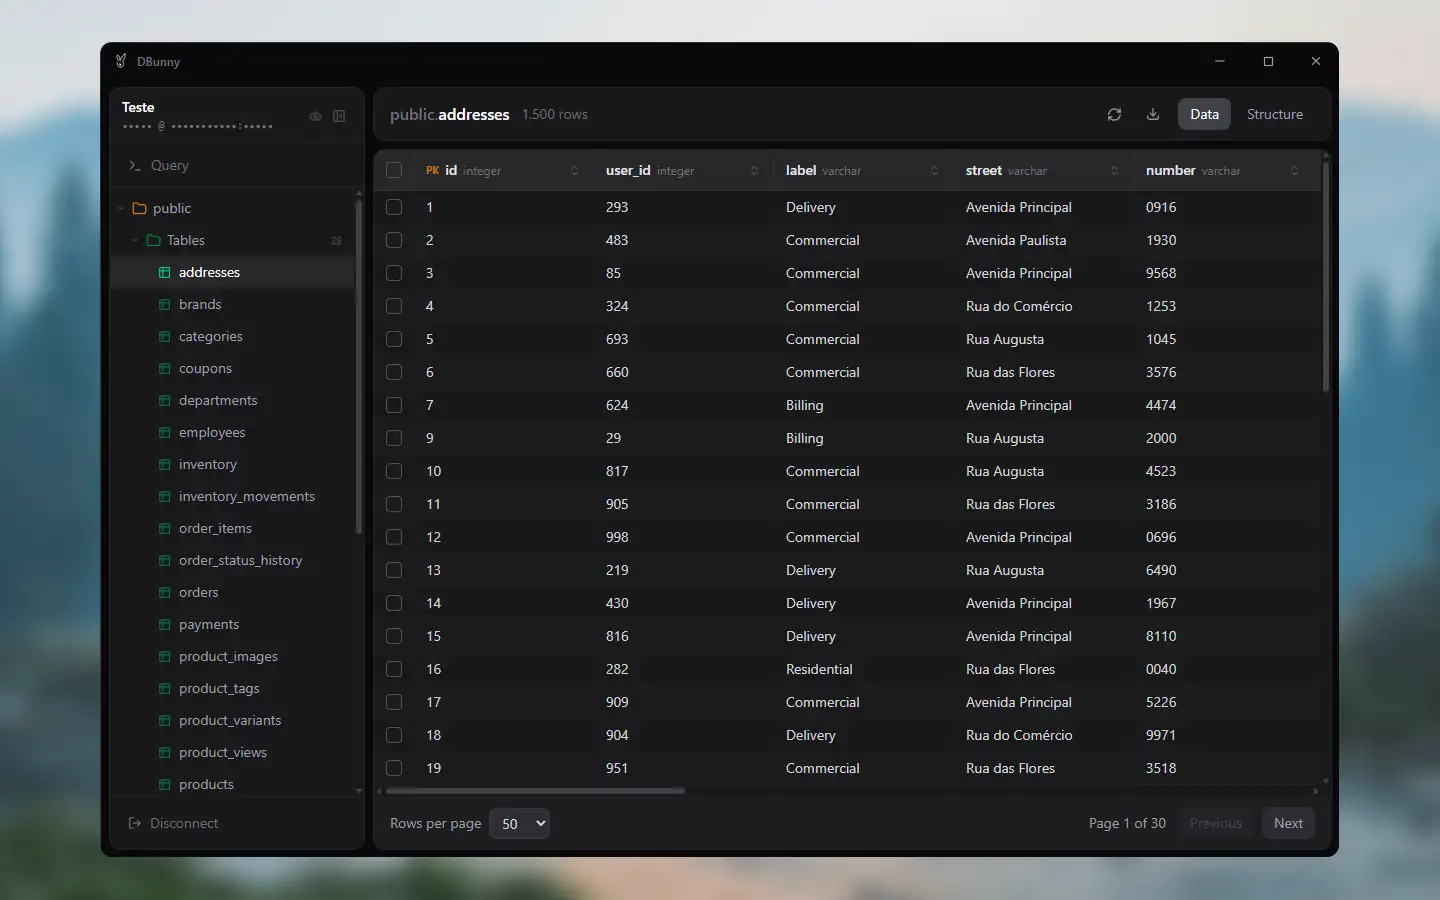
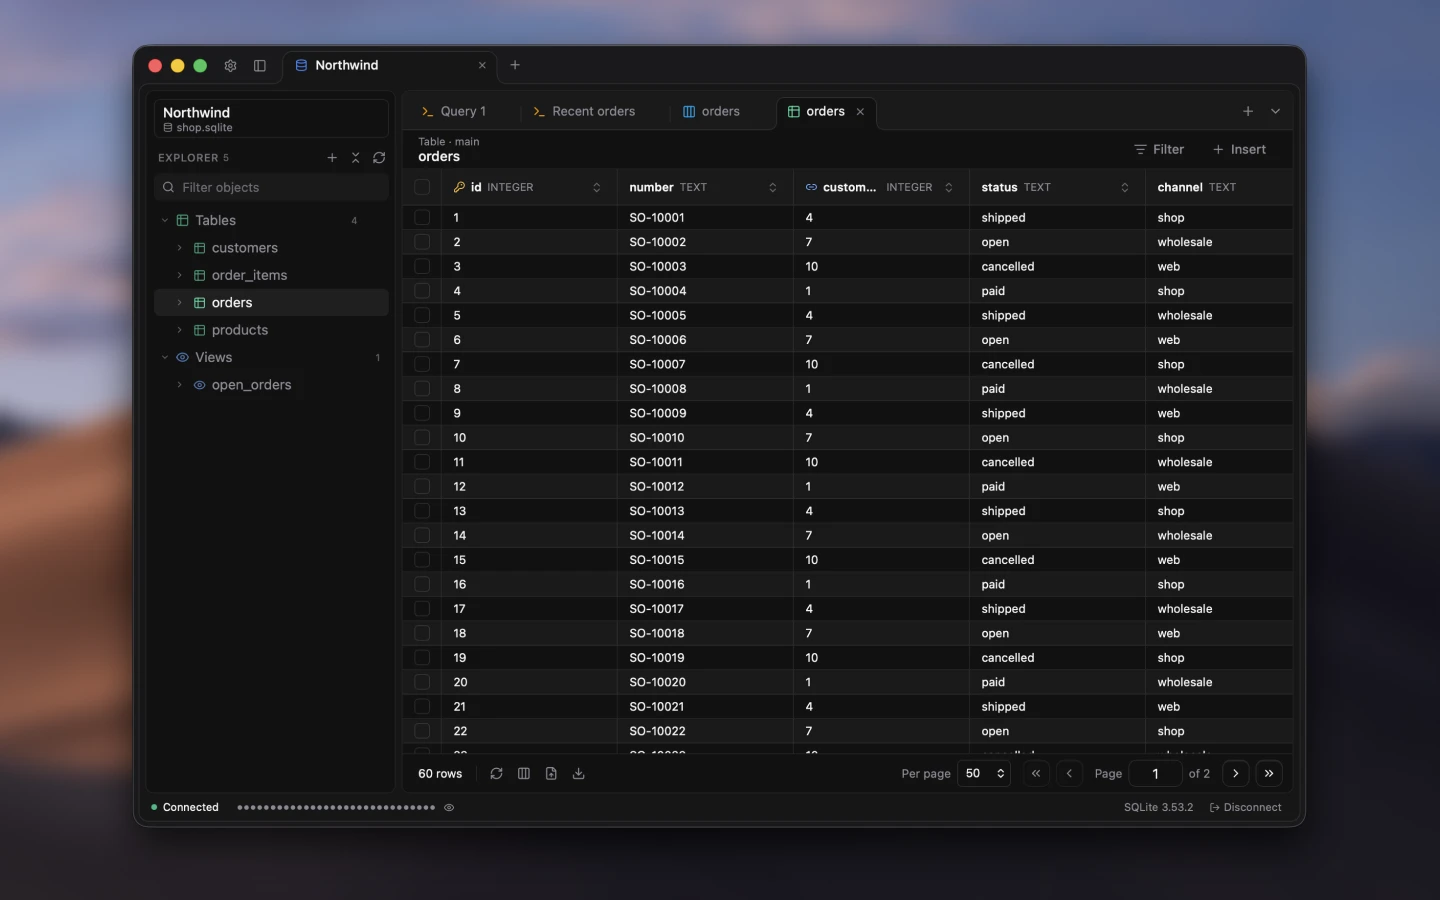
style(web): update DBunny

diff --git a/web/src/data/projects.ts b/web/src/data/projects.ts
@@ -5,14 +5,32 @@ export const projects: Project[] = [
     name: "Linkord",
     desc: "Chat self-hosted no estilo Discord, organizado por amigos e grupos, com mensagens, chamadas de voz e vídeo e compartilhamento de tela.",
     repo: "coelhomarcus/linkord",
-    tech: ["React", "Typescript", "Tailwind", "shadcn/ui", "Fastify", "Socket.io", "Livekit", "PostgreSQL"],
+    tech: [
+      "React",
+      "Typescript",
+      "Tailwind",
+      "shadcn/ui",
+      "Fastify",
+      "Socket.io",
+      "Livekit",
+      "PostgreSQL",
+    ],
     images: ["linkord/01.webp"],
   },
   {
     name: "DBunny",
-    desc: "Cliente desktop leve para PostgreSQL, feito com Tauri e React, para gerenciar conexões, navegar schemas, editar dados e rodar queries.",
+    desc: "Cliente desktop leve para Banco de Dados, feito com Tauri e React, para gerenciar conexões, navegar schemas, editar dados e rodar queries.",
     repo: "coelhomarcus/dbunny",
-    tech: ["React", "Typescript", "Tailwind", "Tauri", "Rust", "PostgreSQL", "Monaco Editor", "TanStack Table"],
+    tech: [
+      "React",
+      "Typescript",
+      "Tailwind",
+      "Tauri",
+      "Rust",
+      "PostgreSQL",
+      "Code Mirror",
+      "TanStack Table",
+    ],
     favicon: "dbunny/favicon.svg",
     images: ["dbunny/01.webp"],
   },
@@ -20,7 +38,16 @@ export const projects: Project[] = [
     name: "Usagi-PKGJ",
     desc: "Fork do PKGj que baixa e instala jogos direto no PS Vita, sem precisar de PC, com uma grade de capas para navegar pelos jogos de Vita, PSP e PS1.",
     repo: "coelhomarcus/usagi-pkgj",
-    tech: ["C++", "C", "VitaSDK", "CMake", "Dear ImGui", "SQLite", "Conan", "Docker"],
+    tech: [
+      "C++",
+      "C",
+      "VitaSDK",
+      "CMake",
+      "Dear ImGui",
+      "SQLite",
+      "Conan",
+      "Docker",
+    ],
     images: ["usagipkgj/01.webp"],
   },
   {
@@ -28,7 +55,15 @@ export const projects: Project[] = [
     desc: "Ferramenta web para recortar imagens e GIFs animados, com preview em tempo real e sem perder a animação.",
     link: "https://crop.marcuscoelho.com",
     repo: "coelhomarcus/Cropin",
-    tech: ["React", "Typescript", "Tailwind", "Express", "react-image-crop", "Multer", "Mono Repo"],
+    tech: [
+      "React",
+      "Typescript",
+      "Tailwind",
+      "Express",
+      "react-image-crop",
+      "Multer",
+      "Mono Repo",
+    ],
     favicon: "cropin/favicon.ico",
     images: ["cropin/01.webp"],
   },
@@ -38,7 +73,17 @@ export const projects: Project[] = [
     link: "https://marcuscoelho.com/",
     repo: "coelhomarcus/marcuscoelho.com",
     linkPreview: "marcuscoelho.com 📌",
-    tech: ["React", "Typescript", "Tailwind", "MDX", "shadcn/ui", "Express", "Drizzle ORM", "PostgreSQL", "Resend"],
+    tech: [
+      "React",
+      "Typescript",
+      "Tailwind",
+      "MDX",
+      "shadcn/ui",
+      "Express",
+      "Drizzle ORM",
+      "PostgreSQL",
+      "Resend",
+    ],
     favicon: "portfolio/favicon.ico",
     images: ["portfolio/01.webp"],
   },
